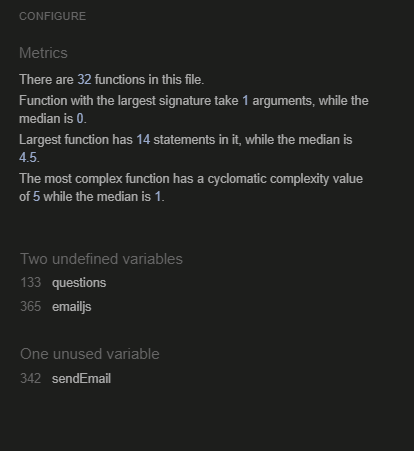
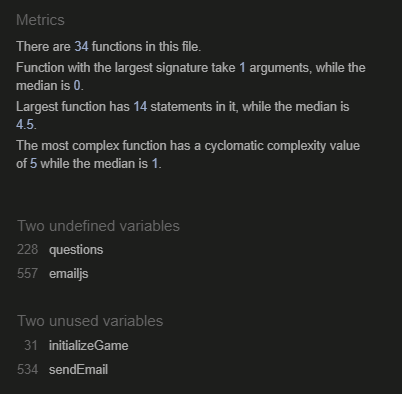
fixed typos

diff --git a/assets/js/style.js b/assets/js/style.js
@@ -201,7 +201,7 @@ function collectData() {
     }
  
     const OUTPUTSPAN = document.getElementById("username");
-    OUTPUTSPAN.innerText = inputValue;
+    OUTPUTSPAN.innerText = INPUTVALUE;
 }
 
 /** 
@@ -225,7 +225,7 @@ function playQuiz() {
  * from the array of questions 
  * to be shown
  * */
-    shuffledQuestions = questions.sort(() => Math.random() - 0.5); 
+    shuffledQuestions = QUESTIONS.sort(() => Math.random() - 0.5); 
     currentQuestionIndex = 0;
     displayNextQuestion();
 }
@@ -283,7 +283,7 @@ let timer = null;
  * It also starts a new timer 
  * that counts down from 30.
  */
-function showQuestion(questions) {
+function showQuestion(QUESTIONS) {
     let count = 30;
 
     document.getElementById("timer").innerText = count;
@@ -326,8 +326,8 @@ function showQuestion(questions) {
      * create new buttons 
      * with the answers
      * */ 
-    questionContent.innerText = questions.question; 
-    questions.answers.forEach((answer) => {
+    questionContent.innerText = QUESTIONS.question; 
+    QUESTIONS.answers.forEach((answer) => {
         const BUTTON = document.createElement("button"); 
         BUTTON.innerText = answer.text;
         BUTTON.classList.add("answerbutton", "btn"); 
@@ -508,16 +508,16 @@ function yourRescentScore() {
     RESCENTSCOREELEMENT.textContent = 
     " scored " + PLAYERSCORE + " - " + QUIZSCORE;
 
-    localStorage.setItem("latestUser", player);
-    localStorage.setItem("latestScore", rescentScoreElement.textContent);
+    localStorage.setItem("latestUser", PLAYER);
+    localStorage.setItem("latestScore", RESCENTSCOREELEMENT.textContent);
 
-    if (playerScore > quizScore) {
-        rescentPlayerElement.classList.remove("wrong");
-        rescentPlayerElement.classList.add("correct");
+    if (PLAYERSCORE > QUIZSCORE) {
+        RESCENTPLAYERELEMENT.classList.remove("wrong");
+        RESCENTPLAYERELEMENT.classList.add("correct");
 
     } else {
-        rescentPlayerElement.classList.remove("correct");
-        rescentPlayerElement.classList.add("wrong");
+        RESCENTPLAYERELEMENT.classList.remove("correct");
+        RESCENTPLAYERELEMENT.classList.add("wrong");
     }
 
 

diff --git a/assets/js/questions.js b/assets/js/questions.js
@@ -1,4 +1,4 @@
-const questions = [
+const QUESTIONS = [
     {
         question: 'What made the goalie Joonas Korpisalo pause the game between Ottawa Senators and Washington Capitals on the 7th of april 2024?',
         answers: [

diff --git a/README.md b/README.md
@@ -172,7 +172,7 @@ Here are my first blueprints on how I wanted this quiz to look.<br><br>
 
 ### **JSHint**<br>
 **style.js**
-- JSHint discovered 3 problems in style.js:<br>- questions are in a separate file (question.js)<br>- emailjs are defined in index.html<br>- sendEmail are used by an onclick in index.html
+- JSHint discovered 4 problems in style.js:<br>- questions are in a separate file (question.js)<br>- emailjs are defined in index.html<br>- initializeGame are called in index.html<br>- sendEmail are used by an onclick in index.html<br>
 <br><br><img src="readme/validateJS.png"><br><br>
 **question.js**<br>
 - JSHint discovered 1 problem in question.js<br>- question are used in style.js<br>
